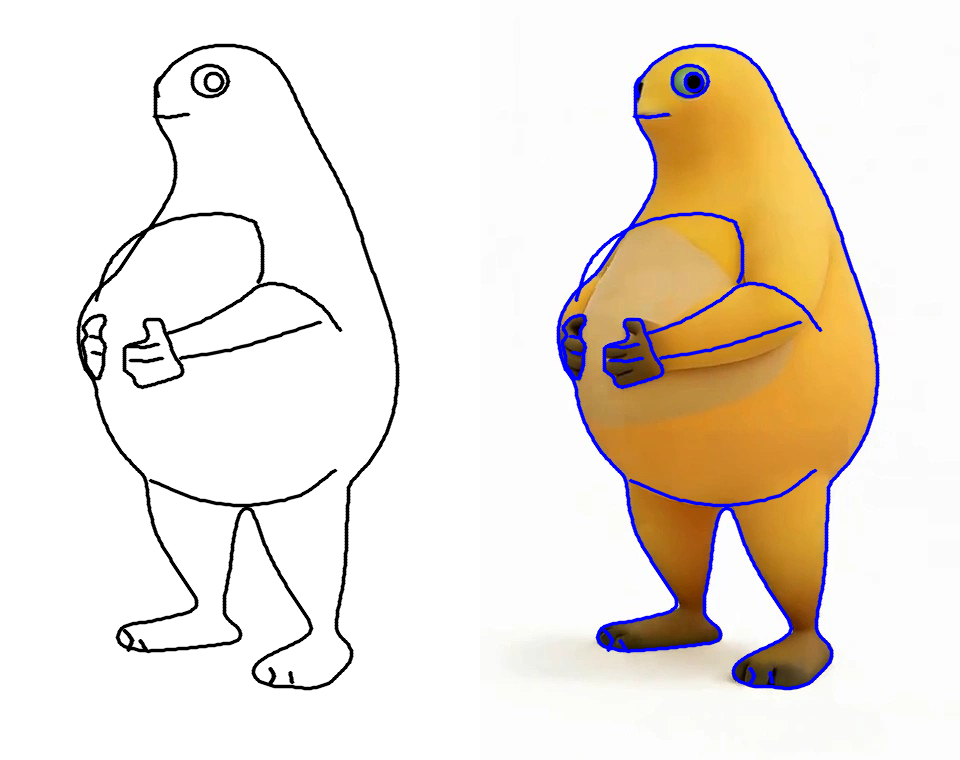
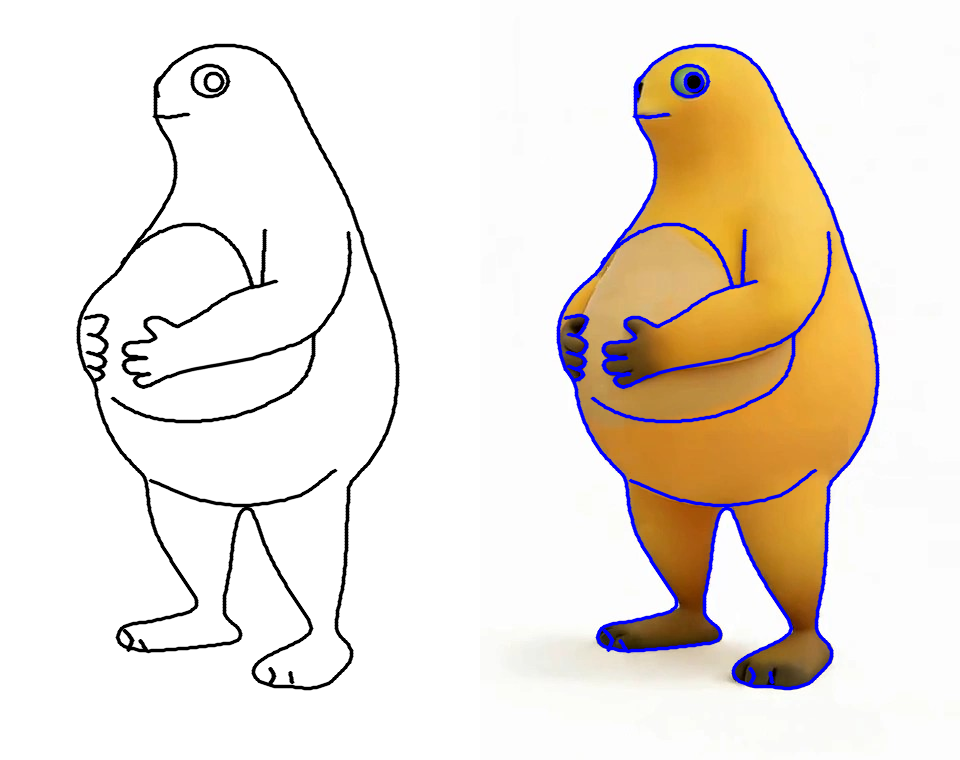
Re-trace belly, arm and hands of the Fourier blob line art
Forearm, upper-arm edge and belly patch now follow the saturation/edge
map of the original, and both hands have individual fingers instead of
auto-traced blobs.

Claude-Session: https://claude.ai/code/session_018qoiqyQLApFChg54ZYyW22

diff --git a/fourier-blob/index.html b/fourier-blob/index.html
@@ -83,7 +83,7 @@ button:focus-visible, input:focus-visible { outline: 2px solid var(--pink); outl
 </div>
 
 <script>
-const D = {"a0":[-20.1,-3.0],"co":[[1.267,24.946,97.851,3.509],[-65.021,-37.85,-112.277,59.65],[39.79,-29.348,-112.597,-103.98],[11.255,-11.681,-22.856,-31.646],[3.759,-10.137,-95.737,-6.69],[-1.82,-33.884,-53.215,18.433],[-16.895,15.581,13.333,7.051],[-1.468,12.149,21.556,-7.887],[20.066,-3.367,-7.398,-1.979],[-9.421,-1.943,-16.841,12.173],[12.548,17.366,-13.779,2.76],[7.595,-9.218,6.335,-11.279],[-6.725,-2.003,1.982,-4.646],[-10.204,1.856,-4.412,1.798],[-2.038,-5.01,-4.497,-0.007],[-6.106,1.786,-6.265,-0.136],[3.061,-6.3,-4.232,-4.478],[-3.201,2.468,4.009,2.845],[6.467,-6.089,-4.691,-4.582],[4.843,4.213,-0.828,7.801],[-0.879,-1.636,1.063,-1.656],[-4.202,-3.204,-1.892,1.254],[-2.165,-3.493,0.377,-5.693],[4.624,-3.316,0.166,-0.465],[2.382,1.472,-2.003,-1.512],[2.282,0.31,-0.194,0.554],[0.058,0.963,-3.913,2.759],[1.124,0.778,1.45,-2.091],[1.6,0.192,0.306,0.714],[-1.476,-0.899,-2.193,-0.34],[-0.912,-0.366,1.737,1.574],[1.684,-2.265,-1.917,-0.507],[1.433,0.204,0.683,-2.708],[2.306,1.916,-0.884,0.6],[-0.977,1.362,0.596,-0.367],[-0.403,-1.24,-1.253,0.022],[1.175,0.747,-0.15,1.306],[0.155,-0.893,-0.265,-1.531],[-0.224,0.896,-0.747,0.282],[-0.392,-0.326,-0.697,-0.345],[1.216,-1.589,0.142,0.458],[0.695,1.017,0.364,-0.15],[-0.002,1.123,0.339,0.238],[1.237,0.677,-0.087,-1.081],[-0.359,0.309,-0.038,0.554],[-0.63,0.2,-0.689,-0.539],[0.244,-0.044,-0.47,0.517],[-0.537,0.134,-0.284,-0.197],[0.139,-0.699,-0.515,-0.758],[-0.282,-0.062,0.438,0.564],[-0.367,0.112,-0.409,0.17],[1.188,-0.015,1.344,0.618],[-0.688,0.871,-1.195,-0.334],[0.374,-0.569,-0.027,-0.6],[0.028,-0.292,-0.679,-0.175],[0.309,-0.2,-0.131,-0.462],[0.65,0.284,0.695,0.693],[-0.004,0.531,-0.429,-0.362],[-0.964,-0.469,0.108,0.185],[0.061,0.089,-0.648,0.035],[0.165,-0.061,0.388,-0.092],[0.32,-0.399,0.083,0.015],[-0.052,0.723,-0.279,0.145],[0.069,-0.158,-0.092,-0.322],[0.55,0.126,-0.4,0.056],[-0.47,0.261,0.313,-0.117],[0.232,-0.474,0.29,0.359],[-0.003,-0.198,-0.458,-0.283],[0.278,-0.2,-0.186,-0.032],[0.129,0.294,-0.163,-0.016],[-0.766,0.415,-0.127,-0.064],[0.197,-0.129,0.351,0.33],[-0.133,-0.004,-0.41,-0.342],[0.267,0.102,0.342,0.14],[0.248,-0.19,-0.375,-0.12],[0.223,-0.095,0.007,-0.016],[0.367,-0.182,0.109,0.077],[-0.148,0.02,-0.192,-0.358],[-0.204,0.009,0.1,0.082],[-0.124,0.093,-0.294,0.324],[0.094,0.266,0.201,-0.084],[-0.003,0.127,-0.038,-0.076],[-0.221,0.072,-0.117,-0.047],[0.281,0.019,0.32,0.08],[0.305,-0.229,-0.555,-0.001],[0.015,-0.017,-0.029,-0.039],[0.229,0.151,0.207,0.021],[-0.556,-0.219,-0.137,-0.101],[0.157,0.402,0.191,0.277],[-0.271,-0.4,-0.407,-0.027],[-0.196,0.18,0.18,-0.104],[0.111,-0.194,-0.238,-0.073],[0.036,0.109,0.166,-0.176],[0.531,-0.046,-0.086,0.097],[-0.114,0.12,-0.045,-0.004],[0.117,0.047,-0.123,0.188],[-0.115,-0.193,0.029,0.097],[-0.04,-0.07,0.097,-0.158],[-0.082,-0.289,-0.025,-0.043],[0.123,0.237,-0.174,-0.112],[-0.119,0.052,0.228,0.165],[0.069,0.245,-0.195,-0.15],[-0.227,-0.005,0.028,0.134],[0.25,-0.129,-0.036,0.04],[0.194,-0.126,-0.17,0.102],[-0.143,-0.046,0.074,0.057],[0.189,-0.068,-0.184,0.097],[-0.239,-0.198,0.228,-0.405],[0.236,0.088,-0.22,0.212],[-0.067,0.033,0.012,-0.149],[0.0,0.044,-0.017,0.189],[-0.001,-0.042,-0.138,0.05],[0.139,0.224,0.13,-0.12],[0.098,-0.174,-0.113,-0.004],[-0.2,0.129,-0.084,-0.081],[0.119,-0.222,0.121,0.153],[0.124,0.059,-0.174,-0.092],[0.163,-0.178,0.068,0.009],[-0.012,0.061,-0.046,-0.009],[-0.088,-0.012,-0.094,0.12],[0.048,0.021,0.164,0.102],[0.05,0.108,-0.128,-0.117],[-0.075,0.033,0.07,-0.044],[0.212,0.255,-0.235,-0.168],[-0.114,-0.134,-0.008,0.117],[0.23,0.1,-0.007,0.06],[-0.02,-0.153,0.013,0.118],[-0.041,-0.122,-0.006,-0.024],[-0.062,0.081,-0.179,0.001],[-0.061,0.002,0.186,-0.026],[0.086,0.09,-0.126,-0.12],[-0.142,0.125,0.024,-0.078],[0.146,0.099,-0.071,0.115],[0.02,-0.1,-0.082,-0.133],[-0.067,-0.076,-0.119,0.199],[0.169,-0.098,0.162,0.002],[-0.051,0.041,-0.008,-0.089],[0.053,0.032,0.01,0.009],[-0.126,0.125,-0.099,-0.079],[-0.015,-0.015,-0.009,0.005],[0.081,-0.028,-0.021,0.039],[-0.067,0.012,-0.081,0.016],[0.082,-0.1,0.086,0.033],[-0.169,0.059,-0.104,-0.0],[0.117,0.05,0.058,-0.091],[-0.029,0.015,-0.002,0.062],[0.008,-0.008,-0.015,-0.128],[0.057,-0.059,-0.075,0.06],[0.047,0.014,-0.134,0.035],[0.021,-0.111,0.043,-0.008],[-0.061,-0.071,0.075,0.06],[-0.143,0.018,-0.047,-0.099],[0.118,0.124,0.104,0.062],[-0.034,-0.005,-0.087,-0.167],[0.063,0.138,-0.035,0.051],[0.098,-0.065,-0.066,0.005],[-0.057,-0.043,0.03,0.039],[0.075,-0.119,-0.024,0.009],[-0.083,-0.027,0.017,0.077],[0.036,-0.133,0.041,-0.089],[-0.099,0.134,-0.087,0.027],[0.09,0.048,0.113,-0.086],[0.067,0.021,-0.126,0.036],[-0.055,0.04,0.033,-0.072],[0.154,-0.037,-0.119,0.18],[-0.033,-0.009,0.041,-0.053],[-0.016,-0.045,0.032,-0.014],[0.001,0.012,0.015,-0.033],[-0.018,0.041,0.045,-0.112],[0.081,-0.06,-0.097,0.143],[-0.054,0.058,0.005,-0.063],[-0.002,-0.054,-0.029,0.083],[0.074,0.034,-0.012,-0.02],[-0.063,-0.038,-0.008,-0.016],[0.038,0.033,0.04,0.058],[-0.019,0.075,-0.017,-0.061],[0.052,-0.008,0.062,-0.002],[0.067,0.012,-0.097,-0.052],[-0.021,-0.072,-0.005,0.079],[0.095,-0.038,-0.068,-0.015],[-0.12,0.034,-0.028,0.098],[0.002,0.012,0.111,-0.067],[-0.035,0.004,-0.026,0.016],[-0.061,0.027,-0.015,-0.068],[0.114,0.109,-0.067,0.077],[-0.011,-0.056,0.065,-0.041],[0.089,0.006,-0.083,0.007],[-0.01,-0.062,0.001,0.005],[-0.002,-0.027,-0.029,0.014],[-0.042,-0.027,0.012,0.029],[-0.032,0.044,0.048,0.006],[0.007,-0.027,-0.02,-0.024],[-0.048,0.082,-0.035,-0.064],[0.079,-0.006,-0.053,0.051],[0.021,0.007,0.003,0.027],[-0.017,-0.019,0.028,0.019],[0.082,-0.01,-0.043,0.012],[-0.036,-0.017,-0.015,-0.031],[-0.026,0.004,0.029,0.01],[0.001,-0.011,-0.03,-0.01],[-0.047,-0.018,0.014,-0.007],[0.066,-0.001,-0.071,0.018],[-0.035,0.006,-0.008,-0.029],[0.017,0.002,-0.019,0.023],[0.04,0.043,-0.045,0.038],[0.002,-0.02,0.096,-0.021],[0.013,-0.003,-0.05,-0.031],[0.007,0.023,-0.003,0.013],[0.001,-0.037,-0.022,-0.021],[-0.007,-0.008,-0.043,0.013],[-0.038,-0.015,0.028,-0.023],[0.041,-0.036,-0.021,0.016],[-0.045,0.048,-0.0,-0.0],[0.015,0.004,-0.011,0.027],[0.054,0.003,0.009,-0.01],[-0.026,-0.026,-0.032,-0.015],[0.068,0.033,0.008,-0.013],[-0.019,-0.031,-0.057,0.012],[0.031,-0.007,0.033,-0.0],[-0.013,-0.017,-0.043,-0.005],[-0.024,0.004,0.051,0.019],[0.004,0.011,-0.038,-0.016],[-0.004,0.02,0.023,-0.002],[0.024,-0.007,-0.048,-0.04],[-0.025,0.016,-0.021,-0.006],[0.058,-0.02,-0.004,0.049],[-0.003,-0.015,-0.001,-0.028],[0.019,-0.008,0.002,0.039],[0.012,-0.005,0.005,-0.016],[-0.0,-0.015,-0.01,-0.017],[-0.026,0.01,0.03,0.026],[0.045,0.04,-0.014,-0.074],[-0.013,-0.037,-0.03,0.012],[0.028,0.057,-0.04,0.003],[0.003,-0.016,0.004,0.017],[0.014,-0.011,-0.005,0.033],[0.003,0.015,0.027,-0.013],[-0.011,-0.008,-0.001,-0.002],[0.026,0.004,0.017,-0.011],[-0.031,0.002,-0.051,-0.01],[0.023,0.021,0.018,0.022],[-0.016,-0.006,-0.009,-0.039],[0.018,0.01,-0.02,0.012],[0.015,-0.043,-0.002,0.007],[-0.024,0.033,-0.012,0.023],[0.033,0.001,0.008,-0.01],[-0.011,-0.008,0.019,-0.003],[0.014,0.021,-0.053,-0.034],[-0.015,-0.02,0.022,0.038],[0.023,0.03,-0.038,0.006],[-0.016,-0.012,0.039,0.024],[0.022,0.007,0.027,-0.023],[-0.024,-0.019,-0.046,-0.048],[0.003,0.025,0.002,0.038],[0.019,-0.022,-0.019,-0.014],[0.002,0.024,0.012,0.001],[-0.007,-0.039,-0.043,0.012],[0.018,0.049,0.008,0.014],[-0.016,-0.044,-0.01,0.027],[0.012,0.038,0.032,-0.006],[-0.001,-0.006,0.004,-0.003],[0.001,-0.001,0.012,-0.04],[0.015,0.012,-0.044,-0.018],[-0.015,-0.008,-0.02,0.04],[0.027,-0.013,-0.002,-0.015],[-0.045,0.004,-0.017,0.048],[0.022,-0.008,0.019,-0.036],[-0.019,0.008,-0.024,0.028],[0.013,-0.011,0.019,-0.012],[-0.002,0.027,-0.011,0.005],[0.032,-0.014,0.008,-0.006],[0.004,-0.011,-0.022,-0.007],[-0.007,-0.008,-0.006,-0.01],[-0.002,0.01,-0.03,0.03],[0.012,-0.011,0.038,-0.006],[-0.02,-0.005,-0.025,-0.015],[0.002,0.02,0.002,-0.003],[0.005,0.017,-0.031,-0.003],[0.022,-0.036,0.001,0.024],[-0.016,0.027,-0.003,0.005],[0.021,-0.032,0.01,-0.003],[-0.003,0.015,-0.0,0.01],[-0.011,-0.004,-0.008,-0.027],[0.019,0.002,0.001,0.02],[-0.005,-0.001,-0.014,-0.04],[-0.006,-0.014,-0.019,0.02],[0.024,0.016,-0.003,0.006],[-0.008,-0.019,-0.02,-0.004],[-0.0,-0.004,0.006,0.027],[0.004,0.025,-0.008,-0.009],[-0.005,-0.015,0.03,0.009],[0.027,0.018,-0.022,-0.027],[-0.002,-0.013,0.002,-0.003],[0.004,-0.003,-0.027,0.005],[0.015,-0.002,0.007,0.002],[-0.029,-0.017,-0.013,0.005],[0.019,0.007,0.01,-0.002],[-0.017,0.02,-0.02,-0.015],[0.017,-0.02,-0.001,0.025],[0.0,0.041,-0.004,-0.016],[0.022,-0.038,0.002,0.018],[-0.003,0.016,-0.001,-0.021],[0.011,-0.016,-0.024,0.007],[-0.011,-0.01,0.023,0.021],[-0.006,0.01,-0.015,-0.036],[-0.004,0.008,0.006,0.027],[0.02,0.011,-0.008,-0.028],[-0.002,-0.011,-0.009,0.002],[0.004,0.008,-0.025,0.008],[0.015,-0.004,0.002,0.009],[-0.008,-0.026,0.013,0.014],[-0.002,0.02,-0.003,-0.021],[-0.007,-0.012,-0.008,-0.003],[0.013,0.02,-0.007,0.016],[-0.009,-0.004,0.009,-0.016],[0.025,0.012,-0.005,0.01],[0.008,-0.016,-0.011,-0.024],[-0.016,-0.008,-0.009,0.01],[0.019,-0.001,-0.015,0.012],[-0.025,0.009,0.013,-0.002],[0.022,-0.019,-0.001,0.007],[-0.027,0.035,-0.002,-0.023],[0.029,-0.018,-0.019,0.016],[-0.003,0.019,0.007,0.015],[0.018,-0.012,0.01,-0.026],[-0.009,-0.012,-0.018,0.023],[0.012,0.013,0.013,-0.036],[-0.019,-0.02,-0.026,0.024],[0.011,0.014,0.005,-0.015],[-0.006,0.008,-0.01,0.017],[0.009,-0.017,0.002,-0.006],[-0.007,0.026,-0.001,-0.002],[0.014,-0.017,-0.014,-0.0],[0.003,0.005,-0.003,0.015],[-0.005,-0.001,0.016,-0.009],[0.008,-0.001,-0.013,0.002],[0.001,-0.001,0.009,-0.013],[-0.002,0.005,-0.029,-0.002],[0.015,-0.009,0.009,0.019],[-0.02,-0.001,-0.001,-0.016],[0.022,0.007,-0.007,0.008],[-0.021,-0.016,-0.009,-0.012],[0.008,0.022,-0.003,0.016],[-0.002,-0.006,-0.005,0.003],[0.016,0.009,0.013,-0.001],[-0.003,-0.006,-0.009,-0.006],[0.012,-0.0,0.003,0.003],[0.004,-0.003,-0.007,-0.015],[0.004,-0.012,-0.016,0.011],[-0.017,-0.007,0.011,0.0],[0.001,0.012,-0.011,-0.007],[-0.008,0.003,-0.009,0.009],[0.011,0.012,0.007,-0.003],[0.001,0.0,-0.013,0.007],[0.009,0.006,0.009,0.003],[0.017,-0.003,-0.0,-0.008],[-0.001,-0.015,-0.005,-0.003],[0.003,-0.007,-0.011,-0.005],[-0.01,-0.007,-0.009,0.014],[-0.013,0.006,0.019,0.001],[0.006,0.007,-0.012,-0.016],[-0.003,0.007,-0.007,0.008],[0.006,0.008,-0.006,-0.007],[0.011,0.005,-0.006,0.012],[0.013,0.001,0.006,-0.0],[0.005,-0.024,-0.012,-0.005],[-0.009,0.012,0.01,0.012],[0.004,-0.019,-0.007,-0.019],[-0.008,0.009,-0.008,0.023],[-0.003,0.002,0.015,-0.017],[-0.0,0.003,-0.014,-0.001],[0.004,0.009,-0.013,-0.009],[0.006,0.002,-0.005,0.015],[0.009,-0.007,-0.005,-0.002],[-0.007,0.003,0.007,0.01],[0.011,0.005,0.001,-0.007],[0.01,-0.013,-0.008,-0.007],[-0.02,0.003,0.006,0.003],[0.014,-0.005,-0.025,0.002],[-0.003,0.011,0.027,0.003],[-0.003,-0.017,-0.022,-0.016],[-0.005,0.015,0.002,0.013],[-0.004,-0.001,-0.006,-0.007],[0.011,0.01,-0.005,0.016],[0.007,0.005,0.012,-0.018],[0.004,-0.015,-0.017,0.007],[0.008,0.007,-0.007,-0.005],[-0.005,-0.015,0.002,0.01],[0.006,-0.003,-0.007,0.005],[-0.015,-0.003,0.012,-0.004],[-0.0,0.004,-0.003,-0.006],[-0.009,0.01,-0.01,-0.007],[0.012,0.014,-0.001,0.004],[0.014,-0.009,-0.013,-0.003],[-0.008,0.005,0.004,0.0],[0.018,-0.01,-0.008,0.005],[-0.0,-0.003,-0.002,0.001],[-0.01,-0.016,0.0,0.0],[-0.002,0.015,0.0,0.005],[-0.008,-0.007,0.01,-0.008]],"up":[[0.3754,0.37863],[0.40153,0.4027],[0.41121,0.41855],[0.42559,0.42882],[0.43587,0.4614],[0.49574,0.49809],[0.53361,0.53713],[0.54065,0.543],[0.54652,0.55122],[0.60258,0.60376],[0.6108,0.61286],[0.65453,0.65776],[0.68623,0.68888],[0.69592,0.71382],[0.75286,0.7828],[0.79865,0.86176],[0.8688,0.87115],[0.87467,0.89316],[0.90021,0.90373],[0.90725,1.0]],"art":[[[-19.0,-334.5],[-25.0,-334.1],[-31.0,-333.3],[-37.0,-332.1],[-43.0,-330.2],[-49.0,-327.7],[-55.0,-324.6],[-60.7,-320.7],[-66.3,-316.2],[-72.0,-310.9],[-76.7,-305.0],[-80.5,-300.0],[-83.1,-295.2],[-84.7,-290.0],[-84.5,-284.0],[-84.3,-278.0],[-84.5,-272.0],[-84.5,-266.0],[-83.0,-260.0],[-80.0,-254.0],[-76.3,-248.0],[-72.3,-242.0],[-69.3,-236.0],[-67.2,-230.0],[-65.8,-224.0],[-64.7,-218.0],[-64.2,-212.0],[-64.4,-206.0],[-65.3,-200.0],[-66.6,-194.0],[-68.9,-188.0],[-71.7,-182.0],[-75.1,-176.0],[-78.5,-170.0],[-82.3,-164.0],[-86.5,-158.0],[-90.8,-152.0],[-95.3,-146.3],[-100.1,-140.7],[-104.6,-135.0],[-108.7,-129.0],[-112.5,-123.0],[-116.3,-117.0],[-120.2,-111.0],[-124.7,-105.5],[-130.1,-100.7],[-135.7,-96.3],[-141.0,-91.4],[-146.1,-86.0],[-150.7,-80.0],[-154.5,-74.0],[-157.3,-68.0],[-159.4,-62.0],[-160.9,-56.0],[-161.6,-50.0],[-161.5,-44.0],[-161.1,-38.0],[-160.5,-32.0],[-159.3,-26.0],[-157.7,-20.0],[-155.6,-14.0],[-152.5,-8.1],[-148.5,-2.5],[-145.3,3.1],[-144.0,9.0],[-143.1,15.0],[-141.8,21.0],[-140.3,27.0],[-138.6,33.0],[-136.4,39.0],[-133.9,45.0],[-131.1,51.0],[-127.9,57.0],[-124.3,63.0],[-120.3,69.0],[-115.8,75.0],[-110.9,80.9],[-105.6,86.5],[-100.2,91.7],[-95.7,97.3],[-93.5,103.0],[-92.7,109.0],[-92.3,115.0],[-91.6,121.0],[-90.7,127.0],[-89.5,133.0],[-88.0,139.0],[-86.3,145.0],[-84.3,151.0],[-81.9,157.0],[-78.9,163.0],[-75.5,169.0],[-71.9,175.0],[-68.1,181.0],[-64.1,187.0],[-60.3,193.0],[-56.5,199.0],[-52.6,205.0],[-48.6,211.0],[-44.9,217.0],[-43.1,222.9],[-45.0,227.8],[-50.0,231.1],[-56.0,233.1],[-62.0,234.9],[-68.0,236.4],[-74.0,237.9],[-80.0,239.3],[-86.0,240.5],[-92.0,241.5],[-98.0,242.4],[-104.0,243.3],[-110.0,244.5],[-115.9,246.9],[-120.5,251.3],[-122.4,257.0],[-120.5,262.5],[-115.9,266.2],[-110.0,268.0],[-104.0,269.5],[-98.0,270.7],[-92.0,271.0],[-86.0,270.7],[-80.0,270.3],[-74.0,269.9],[-68.0,269.5],[-62.0,268.9],[-56.0,268.5],[-50.0,267.7],[-44.0,267.2],[-38.0,266.5],[-32.0,265.8],[-26.0,265.1],[-20.0,264.3],[-14.0,263.5],[-8.0,262.5],[-2.8,260.2],[0.0,255.8],[-0.7,250.2],[-4.5,245.5],[-9.9,241.1],[-14.1,235.9],[-15.9,230.0],[-15.9,224.0],[-15.5,218.0],[-14.5,212.0],[-13.3,206.0],[-12.1,200.0],[-11.1,194.0],[-10.0,188.0],[-9.2,182.0],[-8.5,176.0],[-8.0,170.0],[-7.4,164.0],[-6.4,158.0],[-5.3,152.0],[-3.8,146.0],[-2.3,140.0],[-0.3,134.0],[3.1,129.4],[7.8,128.3],[12.1,131.5],[14.9,137.0],[17.2,143.0],[19.3,149.0],[21.4,155.0],[23.6,161.0],[26.1,167.0],[28.8,173.0],[31.7,179.0],[34.8,185.0],[38.1,191.0],[41.5,197.0],[45.1,203.0],[48.5,209.0],[52.4,215.0],[56.3,221.0],[60.5,227.0],[64.5,233.0],[68.3,239.0],[70.9,245.0],[70.5,250.8],[66.8,255.7],[61.0,259.5],[55.0,262.7],[49.0,265.7],[43.0,268.5],[37.0,271.3],[31.0,274.3],[25.0,277.4],[19.1,281.6],[14.9,287.0],[13.3,293.0],[15.4,297.9],[19.9,301.3],[25.5,303.6],[31.1,305.8],[37.0,306.6],[43.0,306.5],[49.0,306.3],[55.0,307.1],[61.0,307.9],[67.0,308.0],[73.0,307.7],[79.0,306.7],[85.0,304.6],[91.0,301.1],[96.9,296.1],[102.5,290.5],[107.5,284.9],[110.7,279.0],[111.5,273.0],[109.9,267.1],[105.9,261.7],[100.9,256.5],[97.5,251.0],[96.2,245.0],[96.6,239.0],[97.5,233.0],[98.5,227.0],[99.7,221.0],[100.9,215.0],[102.1,209.0],[103.1,203.0],[103.9,197.0],[104.6,191.0],[105.1,185.0],[105.5,179.0],[105.9,173.0],[106.0,167.0],[106.0,161.0],[106.1,155.0],[106.5,149.0],[106.9,143.0],[107.0,137.0],[107.4,131.0],[107.8,125.0],[108.0,119.0],[108.0,113.0],[108.9,107.0],[111.9,101.0],[117.0,95.0],[122.7,89.0],[128.0,83.0],[132.5,77.0],[136.5,71.0],[140.1,65.0],[143.3,59.0],[146.1,53.0],[148.5,47.0],[150.6,41.0],[152.3,35.0],[153.8,29.0],[155.0,23.0],[155.9,17.0],[156.6,11.0],[157.0,5.0],[157.3,-1.0],[157.5,-7.0],[157.4,-13.0],[156.7,-19.0],[156.3,-25.0],[155.6,-31.0],[154.8,-37.0],[153.7,-43.0],[152.4,-49.0],[150.9,-55.0],[149.3,-61.0],[147.7,-67.0],[145.7,-73.0],[143.7,-79.0],[141.5,-85.0],[139.5,-91.0],[137.3,-97.0],[135.1,-103.0],[132.9,-109.0],[130.7,-115.0],[128.7,-121.0],[126.7,-127.0],[124.9,-133.0],[122.9,-139.0],[121.0,-145.0],[118.9,-151.0],[116.9,-157.0],[114.7,-163.0],[112.4,-169.0],[109.9,-175.0],[107.5,-181.0],[104.9,-187.0],[101.9,-193.0],[98.7,-199.0],[95.7,-205.0],[92.5,-211.0],[89.1,-217.0],[85.9,-223.0],[82.5,-229.0],[79.2,-235.0],[76.0,-241.0],[72.7,-247.0],[69.6,-253.0],[66.4,-259.0],[63.6,-265.0],[61.0,-271.0],[58.3,-277.0],[55.5,-283.0],[52.8,-289.0],[49.8,-295.0],[46.4,-301.0],[42.5,-307.0],[38.1,-312.8],[32.8,-318.0],[27.0,-322.5],[21.0,-326.4],[15.0,-329.3],[9.0,-331.3],[3.0,-332.9],[-3.0,-333.7],[-9.0,-334.4],[-15.0,-334.6],[-19.0,-334.5],[-19.0,-334.5]],[[-12.0,-299.0],[-12.9,-294.1],[-15.6,-289.7],[-19.8,-286.2],[-25.0,-284.1],[-30.7,-283.5],[-36.4,-284.5],[-41.4,-287.0],[-45.2,-290.7],[-47.5,-295.3],[-47.9,-300.2],[-46.6,-305.1],[-43.5,-309.3],[-39.0,-312.4],[-33.6,-314.2],[-27.8,-314.4],[-22.3,-313.0],[-17.5,-310.2],[-14.1,-306.2],[-12.2,-301.5],[-12.0,-299.0]],[[-17.5,-298.0],[-18.3,-294.2],[-20.5,-291.1],[-23.7,-289.3],[-27.4,-289.1],[-30.8,-290.6],[-33.3,-293.4],[-34.5,-297.0],[-34.1,-300.9],[-32.2,-304.2],[-29.1,-306.4],[-25.5,-307.0],[-22.0,-306.0],[-19.2,-303.4],[-17.7,-299.9],[-17.5,-298.0]],[[-80.0,-302.0],[-80.5,-301.2],[-81.3,-300.0],[-82.1,-298.6],[-83.0,-297.1],[-83.6,-295.5],[-84.0,-294.0],[-84.0,-292.3],[-83.7,-290.4],[-83.2,-288.5],[-82.7,-286.7],[-82.3,-285.1],[-82.0,-284.0],[-82.0,-284.0]],[[-86.0,-264.0],[-84.3,-263.8],[-81.9,-263.6],[-79.1,-263.3],[-76.1,-263.1],[-73.0,-262.9],[-70.0,-263.0],[-66.9,-263.3],[-63.5,-263.8],[-60.0,-264.4],[-56.7,-265.1],[-54.0,-265.6],[-52.0,-266.0],[-52.0,-266.0]],[[-144.0,-80.0],[-142.7,-84.3],[-141.0,-90.2],[-138.9,-97.2],[-136.4,-104.7],[-133.4,-111.8],[-130.0,-118.0],[-126.0,-123.4],[-121.6,-128.5],[-116.6,-133.4],[-111.3,-137.9],[-105.8,-142.1],[-100.0,-146.0],[-94.0,-149.5],[-87.6,-152.7],[-80.9,-155.5],[-74.1,-158.0],[-67.1,-160.2],[-60.0,-162.0],[-52.6,-163.5],[-44.8,-164.7],[-36.9,-165.5],[-29.1,-166.0],[-21.7,-166.2],[-15.0,-166.0],[-8.8,-165.3],[-2.8,-163.9],[2.8,-162.2],[7.8,-160.5],[11.9,-159.0],[15.0,-158.0],[15.0,-158.0]],[[15.0,-158.0],[15.8,-155.5],[17.1,-152.2],[18.5,-148.2],[19.9,-143.8],[21.2,-139.3],[22.0,-135.0],[22.5,-130.5],[22.7,-125.7],[22.7,-120.7],[22.6,-115.9],[22.3,-111.6],[22.0,-108.0],[21.5,-105.2],[20.8,-103.0],[20.0,-101.3],[19.2,-100.0],[18.5,-98.9],[18.0,-98.0],[18.0,-98.0]],[[-74.0,-46.0],[-70.4,-47.2],[-65.4,-48.7],[-59.5,-50.6],[-53.0,-52.8],[-46.4,-55.3],[-40.0,-58.0],[-33.5,-61.2],[-26.4,-64.9],[-19.2,-68.8],[-12.2,-72.8],[-5.7,-76.6],[0.0,-80.0],[4.6,-83.1],[8.4,-86.1],[11.8,-89.0],[14.9,-91.5],[18.2,-93.6],[22.0,-95.0],[26.3,-95.8],[30.8,-96.2],[35.5,-96.1],[40.3,-95.5],[45.1,-94.5],[50.0,-93.0],[55.0,-91.0],[60.2,-88.4],[65.5,-85.4],[70.7,-82.1],[75.6,-78.6],[80.0,-75.0],[84.1,-70.9],[88.1,-66.3],[91.9,-61.4],[95.2,-56.7],[97.9,-52.8],[100.0,-50.0],[100.0,-50.0]],[[-60.0,-22.0],[-54.6,-22.8],[-47.0,-23.8],[-38.1,-25.1],[-28.5,-26.5],[-18.9,-28.2],[-10.0,-30.0],[-1.6,-32.1],[7.0,-34.6],[15.6,-37.2],[24.1,-39.9],[32.2,-42.5],[40.0,-45.0],[47.7,-47.4],[55.6,-50.0],[63.1,-52.4],[70.0,-54.7],[75.8,-56.6],[80.0,-58.0],[80.0,-58.0]],[[-142.0,-64.6],[-146.0,-63.3],[-149.7,-61.4],[-153.1,-58.0],[-156.1,-54.0],[-156.1,-50.7],[-154.4,-47.9],[-154.0,-44.0],[-155.4,-40.9],[-157.6,-38.6],[-157.6,-35.0],[-156.1,-31.0],[-155.1,-27.0],[-155.0,-23.0],[-154.9,-19.0],[-153.6,-15.0],[-151.4,-11.0],[-148.6,-7.0],[-146.7,-3.3],[-144.0,-1.3],[-140.9,-1.9],[-140.0,-5.0],[-138.9,-9.0],[-137.3,-13.0],[-137.0,-17.0],[-137.0,-21.0],[-136.7,-25.0],[-135.7,-29.0],[-135.0,-33.0],[-136.0,-36.9],[-138.6,-40.3],[-140.0,-44.0],[-139.9,-48.0],[-138.4,-52.0],[-136.0,-56.0],[-135.0,-60.0],[-135.9,-63.6],[-139.0,-65.0],[-142.0,-64.6],[-142.0,-64.6]],[[-92.9,-60.4],[-95.4,-57.9],[-95.7,-54.0],[-93.9,-50.4],[-92.1,-47.0],[-92.1,-43.0],[-94.1,-39.9],[-98.0,-38.4],[-102.0,-37.4],[-106.0,-36.4],[-110.0,-35.4],[-113.9,-33.4],[-115.9,-30.0],[-116.0,-26.0],[-116.0,-22.0],[-116.0,-18.0],[-116.0,-14.0],[-115.1,-10.0],[-112.0,-6.6],[-108.1,-4.3],[-106.0,-1.0],[-104.7,3.0],[-101.9,6.0],[-98.0,7.0],[-94.0,6.4],[-90.0,5.3],[-86.0,4.0],[-82.0,2.9],[-78.0,1.7],[-74.0,0.3],[-70.0,-0.9],[-66.0,-2.1],[-62.0,-3.9],[-58.4,-5.9],[-57.3,-9.0],[-58.1,-13.0],[-60.3,-17.0],[-63.4,-21.0],[-65.7,-25.0],[-67.9,-29.0],[-69.0,-33.0],[-69.7,-37.0],[-71.9,-41.0],[-73.7,-45.0],[-75.1,-49.0],[-76.1,-53.0],[-77.4,-57.0],[-79.4,-59.9],[-83.0,-60.9],[-87.0,-61.0],[-91.0,-60.9],[-92.9,-60.4]],[[-112.0,-34.0],[-110.1,-33.8],[-107.4,-33.6],[-104.3,-33.3],[-101.0,-33.1],[-97.8,-32.9],[-95.0,-33.0],[-92.5,-33.3],[-89.9,-33.8],[-87.4,-34.4],[-85.2,-35.1],[-83.4,-35.6],[-82.0,-36.0],[-82.0,-36.0]],[[-110.0,-20.0],[-108.0,-19.8],[-105.2,-19.6],[-101.9,-19.3],[-98.4,-19.1],[-95.0,-18.9],[-92.0,-19.0],[-89.3,-19.3],[-86.5,-19.8],[-83.9,-20.4],[-81.5,-21.1],[-79.5,-21.6],[-78.0,-22.0],[-78.0,-22.0]],[[-150.0,-44.0],[-148.8,-43.8],[-147.0,-43.4],[-145.0,-43.0],[-143.0,-42.6],[-141.2,-42.2],[-140.0,-42.0],[-140.0,-42.0]],[[-148.0,-28.0],[-147.0,-27.8],[-145.6,-27.4],[-144.0,-27.0],[-142.4,-26.6],[-141.0,-26.2],[-140.0,-26.0],[-140.0,-26.0]],[[-90.0,100.0],[-84.6,102.3],[-77.0,105.7],[-68.1,109.7],[-58.5,113.7],[-48.9,117.3],[-40.0,120.0],[-31.7,121.9],[-23.3,123.3],[-15.0,124.4],[-6.7,125.0],[1.7,125.2],[10.0,125.0],[18.5,124.4],[27.2,123.3],[35.9,121.9],[44.4,120.0],[52.5,117.7],[60.0,115.0],[67.1,111.4],[74.1,106.9],[80.6,101.9],[86.5,97.0],[91.4,92.9],[95.0,90.0],[95.0,90.0]],[[-116.0,250.0],[-115.0,251.1],[-113.5,252.6],[-111.8,254.4],[-110.1,256.3],[-108.7,258.2],[-108.0,260.0],[-108.0,261.8],[-108.6,263.7],[-109.5,265.6],[-110.5,267.4],[-111.4,268.9],[-112.0,270.0],[-112.0,270.0]],[[-100.0,260.0],[-99.3,261.2],[-98.2,263.0],[-97.0,265.0],[-95.8,267.0],[-94.7,268.8],[-94.0,270.0],[-94.0,270.0]],[[30.0,288.0],[30.5,288.9],[31.3,290.1],[32.2,291.5],[33.1,293.0],[33.8,294.6],[34.0,296.0],[33.8,297.4],[33.1,299.0],[32.2,300.5],[31.3,301.9],[30.5,303.1],[30.0,304.0],[30.0,304.0]],[[50.0,292.0],[50.2,293.2],[50.6,295.0],[51.0,297.0],[51.4,299.0],[51.8,300.8],[52.0,302.0],[52.0,302.0]]],"w":480,"h":760,"bb":[-161.6,-334.6,157.5,308.0]};
+const D = {"a0":[-16.11,-3.56],"co":[[0.397,23.294,103.636,1.528],[-62.71,-45.799,-103.789,55.018],[22.111,-23.652,-125.157,-115.994],[21.847,-4.423,-46.845,-15.78],[11.003,-7.066,-63.421,16.247],[-0.171,-53.369,-44.67,-6.917],[-31.569,25.645,3.515,-4.927],[8.948,10.461,-1.15,-9.272],[8.487,-0.427,-5.064,21.912],[3.637,3.633,0.862,15.341],[12.856,5.063,-3.624,-11.115],[-2.816,-6.592,-12.833,-17.842],[0.835,5.052,4.547,-0.092],[-11.014,-5.256,-11.841,5.701],[-4.56,1.303,7.815,6.101],[-2.216,-1.266,-6.746,-6.63],[0.817,-5.663,-3.714,-6.853],[-2.682,-0.407,-4.235,1.26],[2.504,-2.391,-0.232,1.975],[8.465,0.809,-0.461,3.444],[-2.1,1.219,0.49,-0.189],[-1.852,-2.621,-1.469,1.376],[-2.929,-4.408,-1.161,-4.564],[2.472,-4.215,2.985,-0.552],[3.393,0.665,-2.784,-4.713],[1.407,1.131,-2.639,2.276],[1.393,1.238,-0.717,3.043],[1.042,0.325,-1.726,-1.759],[0.749,0.068,2.495,0.8],[0.308,0.616,-1.727,-1.057],[-1.368,-1.854,-0.304,0.791],[0.229,-1.429,0.146,0.906],[1.623,-0.58,-1.807,-2.528],[2.433,1.401,1.083,-0.472],[0.19,2.206,-1.303,1.258],[-0.859,-0.644,2.075,-0.949],[0.999,-0.558,-2.023,-0.036],[0.014,0.156,-0.773,-0.473],[0.308,-0.163,-0.785,0.383],[-0.912,0.905,-0.597,0.36],[0.818,-1.466,1.08,0.299],[1.4,-0.185,-0.092,-1.383],[0.13,1.07,-0.101,0.519],[0.319,0.638,-0.566,-0.317],[0.435,0.785,0.792,0.317],[-0.585,0.798,-0.412,-0.26],[0.462,-0.66,-0.545,-0.329],[-0.594,0.194,-0.437,0.39],[-0.348,-0.42,-0.88,-0.641],[0.018,-0.172,0.699,0.219],[-0.243,0.13,-0.343,-0.171],[0.23,-0.375,0.239,0.55],[0.691,0.917,0.308,0.75],[-0.618,-0.145,-0.467,-0.677],[0.343,-0.209,-0.189,-0.742],[0.317,-0.398,-0.776,-0.192],[0.256,-0.218,0.298,-0.323],[0.455,0.562,0.071,0.835],[-0.574,0.611,-0.276,-0.298],[-0.143,-0.784,0.386,0.465],[-0.197,0.099,-0.62,-0.601],[0.179,-0.141,0.483,0.068],[0.546,-0.106,-0.312,0.016],[-0.651,0.42,-0.324,0.072],[0.521,0.314,-0.131,0.067],[0.691,-0.01,-0.001,0.004],[-0.776,-0.247,0.691,-0.304],[0.209,-0.14,-0.461,0.067],[0.299,-0.162,-0.383,0.006],[0.111,-0.603,-0.215,-0.066],[-0.448,1.155,-0.075,0.358],[0.156,0.021,0.454,-0.461],[-0.256,-0.518,-0.427,0.176],[-0.161,0.355,-0.136,0.023],[0.355,0.136,0.469,0.056],[0.58,-0.306,-0.481,-0.294],[-0.256,-0.451,-0.01,0.014],[0.374,0.536,-0.041,0.23],[0.232,-0.344,0.045,-0.406],[-0.543,-0.127,0.03,0.258],[-0.104,0.355,-0.007,0.023],[0.29,0.226,-0.3,-0.287],[-0.162,-0.072,0.02,0.483],[-0.314,0.303,0.147,-0.311],[0.58,-0.031,0.214,0.208],[0.18,-0.334,-0.503,-0.176],[-0.007,-0.083,-0.052,-0.035],[0.002,0.415,0.127,0.062],[-0.073,-0.33,-0.074,-0.124],[-0.293,0.169,0.049,0.374],[-0.134,-0.017,-0.242,0.014],[-0.088,-0.027,0.267,-0.153],[0.107,-0.164,-0.294,-0.292],[-0.059,-0.04,-0.002,-0.022],[0.457,0.198,-0.035,0.081],[0.052,0.03,-0.065,0.179],[0.07,0.085,0.112,0.062],[-0.081,-0.337,-0.109,-0.02],[-0.155,0.093,0.006,-0.115],[0.046,-0.42,-0.005,0.071],[-0.033,0.328,-0.059,-0.126],[0.04,0.008,0.164,0.012],[-0.043,0.276,-0.237,0.007],[-0.084,-0.023,0.053,0.029],[0.053,-0.154,-0.036,0.198],[0.302,-0.039,-0.03,-0.034],[-0.092,-0.126,-0.034,-0.012],[0.044,-0.086,-0.287,0.128],[-0.122,-0.043,0.194,-0.192],[0.199,-0.096,0.002,0.094],[-0.051,0.101,-0.031,-0.134],[-0.033,0.065,-0.042,-0.001],[0.083,-0.059,-0.167,0.197],[0.059,0.087,-0.023,-0.16],[-0.044,-0.006,0.094,0.179],[0.092,0.236,-0.129,-0.243],[-0.02,-0.424,0.137,0.154],[0.116,0.126,-0.149,-0.071],[0.103,-0.215,-0.041,-0.074],[0.058,0.133,-0.029,0.123],[-0.025,-0.047,-0.02,0.035],[-0.046,-0.019,0.054,0.136],[0.103,0.115,0.053,-0.03],[-0.117,0.043,-0.055,-0.235],[0.231,0.198,-0.223,0.048],[-0.131,-0.008,0.031,-0.043],[0.229,0.035,-0.025,0.092],[0.015,-0.136,-0.027,0.025],[-0.081,-0.046,-0.048,0.165],[0.041,-0.056,0.01,-0.034],[-0.135,0.087,-0.021,-0.092],[0.071,-0.04,0.083,-0.032],[-0.085,0.228,-0.187,-0.243],[0.047,0.037,-0.004,0.239],[0.073,0.007,-0.052,-0.046],[-0.065,-0.044,0.011,0.042],[0.137,-0.161,-0.024,-0.049],[0.044,0.01,-0.045,0.027],[-0.06,-0.067,0.085,0.015],[-0.06,0.285,-0.066,-0.034],[0.048,-0.041,-0.001,-0.058],[-0.05,-0.083,-0.029,-0.027],[0.031,0.069,-0.096,0.088],[-0.012,-0.084,0.037,-0.036],[0.013,-0.008,-0.031,0.095],[-0.13,0.006,-0.02,-0.107],[0.105,0.154,0.019,0.008],[0.035,-0.077,0.022,0.036],[-0.043,-0.035,0.0,-0.173],[0.111,-0.027,-0.173,0.134],[-0.026,-0.016,-0.073,-0.044],[0.042,-0.137,0.085,0.098],[-0.184,0.048,0.04,-0.031],[0.12,0.003,0.007,-0.054],[-0.083,0.025,0.042,-0.009],[0.043,0.151,-0.109,-0.092],[0.088,0.002,0.059,0.044],[0.06,0.005,-0.163,-0.075],[-0.035,-0.19,0.039,0.145],[-0.008,0.047,0.001,0.021],[0.01,-0.143,0.063,0.032],[-0.029,-0.016,0.033,-0.081],[-0.019,0.077,-0.086,-0.094],[0.023,0.042,0.011,0.026],[0.101,0.075,-0.113,0.038],[-0.073,-0.056,0.138,0.029],[0.151,0.071,-0.147,0.015],[0.008,-0.073,0.02,0.0],[-0.053,-0.074,0.057,-0.035],[-0.004,0.063,-0.051,-0.041],[-0.023,-0.004,0.117,-0.019],[0.084,0.01,-0.142,0.047],[-0.042,0.03,0.022,0.006],[0.04,-0.077,-0.012,0.037],[0.008,0.012,-0.043,-0.01],[-0.067,0.015,0.029,-0.027],[0.08,0.019,-0.016,0.089],[-0.053,0.095,0.069,-0.095],[0.118,-0.053,-0.051,0.003],[-0.011,0.032,0.009,-0.0],[0.032,-0.096,-0.082,-0.006],[0.042,0.01,-0.011,0.104],[-0.061,0.01,-0.021,-0.073],[-0.045,-0.013,0.014,0.057],[-0.043,0.056,0.038,-0.013],[0.005,0.006,-0.017,0.009],[0.051,0.086,0.03,-0.044],[0.034,-0.028,-0.079,-0.04],[0.048,-0.024,-0.034,0.051],[0.019,-0.036,-0.048,0.008],[-0.036,-0.03,0.045,0.08],[0.02,-0.022,0.046,-0.069],[-0.089,0.014,-0.02,0.007],[0.036,0.001,-0.022,-0.016],[-0.059,0.068,-0.057,-0.014],[0.074,-0.02,0.028,0.036],[-0.001,0.048,-0.049,-0.018],[0.037,-0.026,0.026,0.055],[0.05,-0.039,-0.029,0.01],[-0.023,0.005,-0.013,-0.019],[-0.027,-0.027,0.042,-0.031],[-0.034,0.02,-0.076,0.013],[-0.0,-0.018,0.046,0.002],[0.019,-0.009,-0.078,0.019],[0.022,0.013,0.009,-0.023],[-0.023,-0.011,-0.024,-0.004],[0.057,0.018,-0.038,0.043],[-0.033,0.026,0.04,-0.033],[0.042,-0.022,-0.004,0.023],[0.019,0.039,-0.007,-0.034],[-0.022,-0.072,-0.026,0.02],[0.012,0.05,-0.004,-0.019],[-0.023,-0.08,-0.027,-0.03],[-0.022,0.001,0.011,0.016],[0.02,0.042,-0.049,0.002],[-0.011,-0.003,0.018,0.063],[0.034,-0.008,0.038,-0.013],[-0.011,0.019,-0.031,-0.057],[0.077,-0.002,-0.029,0.004],[-0.008,-0.034,-0.033,-0.0],[-0.018,0.005,-0.014,0.029],[0.036,-0.009,0.019,-0.004],[-0.032,0.008,0.008,-0.007],[0.018,-0.029,-0.002,0.002],[-0.045,0.043,-0.012,-0.017],[0.046,0.002,-0.015,-0.014],[-0.012,0.004,-0.046,-0.03],[0.005,-0.01,0.013,0.041],[0.05,0.005,-0.028,-0.008],[0.004,-0.031,0.02,0.028],[0.019,-0.017,0.012,-0.001],[-0.025,0.007,-0.02,-0.031],[0.019,0.005,0.023,0.015],[-0.002,0.002,-0.014,-0.027],[0.001,0.028,-0.01,-0.023],[0.035,-0.001,-0.028,0.017],[0.009,0.024,-0.022,-0.011],[-0.003,-0.033,0.012,0.038],[0.013,0.023,-0.006,-0.013],[-0.001,-0.003,0.001,0.009],[-0.008,-0.011,0.016,0.009],[0.012,0.038,-0.002,0.0],[0.01,-0.023,0.012,-0.021],[-0.012,0.011,-0.038,-0.036],[-0.006,0.001,-0.015,0.019],[0.007,-0.006,-0.027,0.006],[0.019,0.002,0.035,0.053],[0.001,0.005,-0.007,-0.046],[0.008,-0.003,0.001,0.003],[0.008,0.004,-0.022,-0.005],[-0.015,0.004,-0.013,-0.012],[0.016,0.003,0.008,0.043],[-0.007,0.015,-0.017,-0.02],[0.017,-0.002,0.023,0.025],[-0.02,-0.015,-0.002,-0.01],[0.017,0.025,0.012,-0.029],[-0.018,-0.042,-0.018,-0.008],[0.025,0.042,-0.041,-0.014],[-0.012,-0.028,-0.0,0.042],[0.014,0.012,-0.016,0.003],[0.003,0.003,0.011,0.028],[-0.015,-0.008,0.01,-0.008],[0.03,0.017,0.002,-0.001],[-0.035,-0.003,0.017,-0.011],[0.041,0.003,-0.024,-0.029],[-0.031,0.005,-0.005,0.007],[0.033,0.005,-0.041,0.009],[-0.012,-0.029,0.024,0.02],[-0.011,0.021,-0.026,-0.009],[-0.005,-0.036,-0.004,0.006],[-0.012,0.035,-0.001,0.011],[0.009,-0.014,-0.003,0.006],[0.021,0.026,0.025,-0.002],[0.007,-0.029,-0.015,-0.018],[0.017,0.007,-0.024,-0.012],[-0.007,-0.02,-0.011,0.023],[-0.016,-0.001,0.001,-0.007],[0.01,0.023,-0.006,0.01],[-0.003,-0.026,0.006,-0.012],[0.008,0.033,-0.016,-0.001],[-0.011,-0.02,-0.01,-0.001],[0.026,0.006,-0.002,0.013],[-0.022,-0.011,-0.014,-0.007],[0.019,0.01,-0.005,0.018],[0.015,-0.01,0.018,0.019],[-0.019,-0.003,0.002,-0.034],[0.009,0.002,-0.001,0.005],[0.005,0.006,-0.026,-0.031],[-0.007,-0.019,-0.007,0.012],[0.018,0.003,-0.027,0.01],[-0.017,0.014,0.002,0.009],[0.031,-0.028,-0.004,0.018],[-0.027,0.026,0.011,-0.005],[0.014,-0.002,0.01,-0.007],[0.021,-0.004,-0.01,-0.014],[-0.008,0.002,-0.017,-0.011],[0.003,-0.01,-0.01,0.017],[0.018,0.019,-0.004,0.004],[-0.012,-0.041,0.018,-0.004],[-0.008,0.016,-0.025,-0.015],[0.007,0.01,-0.005,0.008],[-0.008,-0.004,-0.004,0.002],[0.023,0.013,-0.014,0.009],[-0.013,0.009,0.026,-0.002],[0.052,-0.018,-0.033,-0.009],[-0.032,-0.006,0.015,0.007],[0.012,-0.015,-0.013,0.004],[-0.02,0.017,0.014,-0.009],[0.01,-0.001,-0.019,-0.011],[-0.005,0.01,-0.001,0.016],[0.017,0.017,-0.006,-0.021],[0.016,-0.026,-0.01,0.023],[-0.012,0.008,-0.002,-0.017],[0.005,-0.016,-0.011,0.008],[0.0,0.013,-0.003,0.02],[-0.005,-0.015,0.01,-0.021],[-0.003,0.021,-0.003,0.021],[0.021,0.003,-0.0,-0.028],[-0.008,-0.012,0.001,0.011],[0.021,0.014,-0.021,-0.015],[-0.014,-0.012,0.0,0.002],[0.023,-0.007,-0.014,0.013],[-0.021,0.003,-0.006,-0.004],[-0.0,-0.008,0.018,0.023],[0.005,0.018,-0.005,-0.036],[-0.006,-0.001,-0.015,0.013],[0.019,0.001,-0.005,0.004],[0.002,0.011,-0.006,0.005],[0.006,-0.017,0.02,0.006],[0.013,0.003,-0.017,-0.021],[-0.017,-0.008,0.007,0.001],[0.003,-0.004,-0.024,-0.003],[0.001,0.016,0.002,0.005],[-0.006,-0.011,-0.006,0.005],[0.01,0.013,-0.005,-0.001],[-0.003,0.007,0.004,0.004],[0.022,-0.014,-0.01,0.007],[-0.01,0.003,0.015,-0.01],[-0.002,-0.006,-0.015,-0.003],[0.003,0.008,-0.003,0.0],[0.006,0.001,-0.007,0.002],[0.004,-0.004,0.004,0.003],[0.001,-0.002,-0.005,-0.007],[0.004,-0.001,-0.004,-0.001],[-0.005,-0.012,-0.013,0.002],[-0.013,0.012,0.002,0.001],[0.01,0.009,-0.008,0.005],[0.007,0.001,-0.005,0.006],[0.006,-0.001,0.012,0.002],[0.006,0.003,0.0,-0.005],[0.006,-0.015,-0.003,-0.013],[-0.001,0.005,-0.014,-0.004],[-0.002,-0.009,-0.013,0.01],[0.001,-0.004,0.009,0.004],[-0.013,0.004,-0.008,0.002],[-0.001,0.007,0.006,-0.009],[0.005,0.016,-0.017,0.001],[0.01,-0.004,0.003,0.012],[0.007,0.009,-0.0,-0.008],[0.015,-0.01,-0.001,0.004],[0.001,-0.009,-0.002,-0.007],[-0.006,-0.018,-0.009,0.005],[-0.006,0.017,0.006,-0.005],[-0.003,-0.017,-0.011,0.003],[-0.009,0.016,0.007,-0.007],[0.0,0.013,-0.025,0.006],[0.016,0.008,0.019,0.006],[0.008,-0.002,-0.012,-0.011],[0.009,-0.003,-0.005,0.01],[0.007,-0.013,-0.001,-0.005],[-0.01,-0.004,-0.007,0.004],[-0.005,-0.001,0.006,0.007],[0.003,0.005,-0.001,-0.008],[-0.001,0.005,-0.002,-0.002],[-0.003,-0.009,-0.006,-0.002],[0.004,0.02,-0.005,-0.006],[0.001,-0.01,-0.012,-0.001],[0.008,0.009,-0.007,0.013],[-0.001,-0.001,0.009,-0.001],[0.019,0.002,-0.007,0.011],[-0.001,-0.019,0.016,-0.013],[-0.018,0.009,-0.01,-0.01],[0.011,-0.002,-0.018,0.009],[0.007,0.006,0.007,-0.006],[-0.017,-0.016,-0.008,0.015],[0.004,0.021,0.007,-0.013],[-0.002,-0.003,-0.007,0.007],[0.009,-0.001,-0.006,-0.005],[-0.004,0.014,0.003,0.001],[0.011,-0.007,-0.006,-0.003],[0.019,-0.003,-0.018,0.001],[-0.02,-0.017,0.011,0.012],[0.01,0.005,-0.003,-0.0],[-0.013,-0.004,0.003,-0.005],[0.003,0.003,0.003,-0.005],[-0.01,0.003,-0.019,-0.006],[0.003,0.016,0.007,0.008],[0.017,-0.0,-0.011,-0.007],[0.0,0.005,-0.004,0.001],[0.016,-0.015,0.002,0.007]],"up":[[0.37148,0.37467],[0.39733,0.39849],[0.40691,0.41417],[0.42114,0.42434],[0.43131,0.45832],[0.46878,0.47052],[0.51292,0.5228],[0.55591,0.55794],[0.56143,0.56375],[0.56724,0.57014],[0.57363,0.58379],[0.63723,0.64682],[0.76735,0.80221],[0.84084,0.8632],[0.87017,0.87249],[0.87598,0.89428],[0.90125,0.90473],[0.90822,1.0]],"art":[[[-19.0,-334.5],[-25.0,-334.1],[-31.0,-333.3],[-37.0,-332.1],[-43.0,-330.2],[-49.0,-327.7],[-55.0,-324.6],[-60.7,-320.7],[-66.3,-316.2],[-72.0,-310.9],[-76.7,-305.0],[-80.5,-300.0],[-83.1,-295.2],[-84.7,-290.0],[-84.5,-284.0],[-84.3,-278.0],[-84.5,-272.0],[-84.5,-266.0],[-83.0,-260.0],[-80.0,-254.0],[-76.3,-248.0],[-72.3,-242.0],[-69.3,-236.0],[-67.2,-230.0],[-65.8,-224.0],[-64.7,-218.0],[-64.2,-212.0],[-64.4,-206.0],[-65.3,-200.0],[-66.6,-194.0],[-68.9,-188.0],[-71.7,-182.0],[-75.1,-176.0],[-78.5,-170.0],[-82.3,-164.0],[-86.5,-158.0],[-90.8,-152.0],[-95.3,-146.3],[-100.1,-140.7],[-104.6,-135.0],[-108.7,-129.0],[-112.5,-123.0],[-116.3,-117.0],[-120.2,-111.0],[-124.7,-105.5],[-130.1,-100.7],[-135.7,-96.3],[-141.0,-91.4],[-146.1,-86.0],[-150.7,-80.0],[-154.5,-74.0],[-157.3,-68.0],[-159.4,-62.0],[-160.9,-56.0],[-161.6,-50.0],[-161.5,-44.0],[-161.1,-38.0],[-160.5,-32.0],[-159.3,-26.0],[-157.7,-20.0],[-155.6,-14.0],[-152.5,-8.1],[-148.5,-2.5],[-145.3,3.1],[-144.0,9.0],[-143.1,15.0],[-141.8,21.0],[-140.3,27.0],[-138.6,33.0],[-136.4,39.0],[-133.9,45.0],[-131.1,51.0],[-127.9,57.0],[-124.3,63.0],[-120.3,69.0],[-115.8,75.0],[-110.9,80.9],[-105.6,86.5],[-100.2,91.7],[-95.7,97.3],[-93.5,103.0],[-92.7,109.0],[-92.3,115.0],[-91.6,121.0],[-90.7,127.0],[-89.5,133.0],[-88.0,139.0],[-86.3,145.0],[-84.3,151.0],[-81.9,157.0],[-78.9,163.0],[-75.5,169.0],[-71.9,175.0],[-68.1,181.0],[-64.1,187.0],[-60.3,193.0],[-56.5,199.0],[-52.6,205.0],[-48.6,211.0],[-44.9,217.0],[-43.1,222.9],[-45.0,227.8],[-50.0,231.1],[-56.0,233.1],[-62.0,234.9],[-68.0,236.4],[-74.0,237.9],[-80.0,239.3],[-86.0,240.5],[-92.0,241.5],[-98.0,242.4],[-104.0,243.3],[-110.0,244.5],[-115.9,246.9],[-120.5,251.3],[-122.4,257.0],[-120.5,262.5],[-115.9,266.2],[-110.0,268.0],[-104.0,269.5],[-98.0,270.7],[-92.0,271.0],[-86.0,270.7],[-80.0,270.3],[-74.0,269.9],[-68.0,269.5],[-62.0,268.9],[-56.0,268.5],[-50.0,267.7],[-44.0,267.2],[-38.0,266.5],[-32.0,265.8],[-26.0,265.1],[-20.0,264.3],[-14.0,263.5],[-8.0,262.5],[-2.8,260.2],[0.0,255.8],[-0.7,250.2],[-4.5,245.5],[-9.9,241.1],[-14.1,235.9],[-15.9,230.0],[-15.9,224.0],[-15.5,218.0],[-14.5,212.0],[-13.3,206.0],[-12.1,200.0],[-11.1,194.0],[-10.0,188.0],[-9.2,182.0],[-8.5,176.0],[-8.0,170.0],[-7.4,164.0],[-6.4,158.0],[-5.3,152.0],[-3.8,146.0],[-2.3,140.0],[-0.3,134.0],[3.1,129.4],[7.8,128.3],[12.1,131.5],[14.9,137.0],[17.2,143.0],[19.3,149.0],[21.4,155.0],[23.6,161.0],[26.1,167.0],[28.8,173.0],[31.7,179.0],[34.8,185.0],[38.1,191.0],[41.5,197.0],[45.1,203.0],[48.5,209.0],[52.4,215.0],[56.3,221.0],[60.5,227.0],[64.5,233.0],[68.3,239.0],[70.9,245.0],[70.5,250.8],[66.8,255.7],[61.0,259.5],[55.0,262.7],[49.0,265.7],[43.0,268.5],[37.0,271.3],[31.0,274.3],[25.0,277.4],[19.1,281.6],[14.9,287.0],[13.3,293.0],[15.4,297.9],[19.9,301.3],[25.5,303.6],[31.1,305.8],[37.0,306.6],[43.0,306.5],[49.0,306.3],[55.0,307.1],[61.0,307.9],[67.0,308.0],[73.0,307.7],[79.0,306.7],[85.0,304.6],[91.0,301.1],[96.9,296.1],[102.5,290.5],[107.5,284.9],[110.7,279.0],[111.5,273.0],[109.9,267.1],[105.9,261.7],[100.9,256.5],[97.5,251.0],[96.2,245.0],[96.6,239.0],[97.5,233.0],[98.5,227.0],[99.7,221.0],[100.9,215.0],[102.1,209.0],[103.1,203.0],[103.9,197.0],[104.6,191.0],[105.1,185.0],[105.5,179.0],[105.9,173.0],[106.0,167.0],[106.0,161.0],[106.1,155.0],[106.5,149.0],[106.9,143.0],[107.0,137.0],[107.4,131.0],[107.8,125.0],[108.0,119.0],[108.0,113.0],[108.9,107.0],[111.9,101.0],[117.0,95.0],[122.7,89.0],[128.0,83.0],[132.5,77.0],[136.5,71.0],[140.1,65.0],[143.3,59.0],[146.1,53.0],[148.5,47.0],[150.6,41.0],[152.3,35.0],[153.8,29.0],[155.0,23.0],[155.9,17.0],[156.6,11.0],[157.0,5.0],[157.3,-1.0],[157.5,-7.0],[157.4,-13.0],[156.7,-19.0],[156.3,-25.0],[155.6,-31.0],[154.8,-37.0],[153.7,-43.0],[152.4,-49.0],[150.9,-55.0],[149.3,-61.0],[147.7,-67.0],[145.7,-73.0],[143.7,-79.0],[141.5,-85.0],[139.5,-91.0],[137.3,-97.0],[135.1,-103.0],[132.9,-109.0],[130.7,-115.0],[128.7,-121.0],[126.7,-127.0],[124.9,-133.0],[122.9,-139.0],[121.0,-145.0],[118.9,-151.0],[116.9,-157.0],[114.7,-163.0],[112.4,-169.0],[109.9,-175.0],[107.5,-181.0],[104.9,-187.0],[101.9,-193.0],[98.7,-199.0],[95.7,-205.0],[92.5,-211.0],[89.1,-217.0],[85.9,-223.0],[82.5,-229.0],[79.2,-235.0],[76.0,-241.0],[72.7,-247.0],[69.6,-253.0],[66.4,-259.0],[63.6,-265.0],[61.0,-271.0],[58.3,-277.0],[55.5,-283.0],[52.8,-289.0],[49.8,-295.0],[46.4,-301.0],[42.5,-307.0],[38.1,-312.8],[32.8,-318.0],[27.0,-322.5],[21.0,-326.4],[15.0,-329.3],[9.0,-331.3],[3.0,-332.9],[-3.0,-333.7],[-9.0,-334.4],[-15.0,-334.6],[-19.0,-334.5],[-19.0,-334.5]],[[-12.0,-299.0],[-12.9,-294.1],[-15.6,-289.7],[-19.8,-286.2],[-25.0,-284.1],[-30.7,-283.5],[-36.4,-284.5],[-41.4,-287.0],[-45.2,-290.7],[-47.5,-295.3],[-47.9,-300.2],[-46.6,-305.1],[-43.5,-309.3],[-39.0,-312.4],[-33.6,-314.2],[-27.8,-314.4],[-22.3,-313.0],[-17.5,-310.2],[-14.1,-306.2],[-12.2,-301.5],[-12.0,-299.0]],[[-17.5,-298.0],[-18.3,-294.2],[-20.5,-291.1],[-23.7,-289.3],[-27.4,-289.1],[-30.8,-290.6],[-33.3,-293.4],[-34.5,-297.0],[-34.1,-300.9],[-32.2,-304.2],[-29.1,-306.4],[-25.5,-307.0],[-22.0,-306.0],[-19.2,-303.4],[-17.7,-299.9],[-17.5,-298.0]],[[-80.0,-302.0],[-80.5,-301.2],[-81.3,-300.0],[-82.1,-298.6],[-83.0,-297.1],[-83.6,-295.5],[-84.0,-294.0],[-84.0,-292.3],[-83.7,-290.4],[-83.2,-288.5],[-82.7,-286.7],[-82.3,-285.1],[-82.0,-284.0],[-82.0,-284.0]],[[-86.0,-264.0],[-84.3,-263.8],[-81.9,-263.6],[-79.1,-263.3],[-76.1,-263.1],[-73.0,-262.9],[-70.0,-263.0],[-66.9,-263.3],[-63.5,-263.8],[-60.0,-264.4],[-56.7,-265.1],[-54.0,-265.6],[-52.0,-266.0],[-52.0,-266.0]],[[108.0,-148.0],[108.7,-142.8],[109.6,-135.4],[110.0,-128.0],[109.8,-121.4],[109.1,-114.8],[108.0,-108.0],[106.4,-100.7],[104.4,-93.1],[102.0,-86.0],[99.1,-79.7],[95.8,-73.9],[92.0,-68.0],[87.8,-61.8],[83.1,-55.6],[78.0,-50.0],[72.2,-45.3],[66.0,-41.3],[60.0,-38.0],[55.1,-35.7],[50.4,-34.1],[44.0,-32.0],[34.5,-28.8],[23.3,-25.2],[12.0,-22.0],[1.3,-19.7],[-9.3,-17.9],[-20.0,-16.0],[-31.2,-14.0],[-42.4,-12.0],[-52.0,-10.0],[-59.3,-8.0],[-65.0,-5.9],[-70.0,-4.0],[-74.6,-2.2],[-78.5,-0.6],[-82.0,1.0],[-85.0,2.5],[-87.6,3.9],[-90.0,5.0],[-92.5,6.0],[-94.9,6.7],[-97.0,7.0],[-98.9,6.7],[-100.6,6.0],[-102.0,5.0],[-103.3,3.8],[-104.4,2.4],[-105.0,1.0],[-104.9,-0.4],[-104.1,-1.8],[-103.0,-3.0],[-101.3,-3.9],[-99.1,-4.5],[-97.0,-5.0],[-94.4,-5.4],[-91.9,-5.8],[-91.0,-6.0],[-92.9,-6.0],[-96.4,-6.0],[-100.0,-6.0],[-103.4,-6.1],[-107.0,-6.4],[-110.0,-7.0],[-112.2,-8.1],[-113.8,-9.5],[-115.0,-11.0],[-115.8,-12.6],[-116.1,-14.4],[-116.0,-16.0],[-115.5,-17.5],[-114.5,-18.9],[-113.0,-20.0],[-110.8,-20.6],[-108.1,-20.8],[-105.0,-21.0],[-100.9,-21.3],[-96.4,-21.7],[-94.0,-22.0],[-95.2,-22.3],[-98.6,-22.7],[-102.0,-23.0],[-105.1,-23.2],[-108.3,-23.4],[-111.0,-24.0],[-113.1,-25.1],[-114.9,-26.5],[-116.0,-28.0],[-116.5,-29.6],[-116.5,-31.4],[-116.0,-33.0],[-115.2,-34.5],[-113.9,-35.9],[-112.0,-37.0],[-109.1,-37.6],[-105.6,-37.8],[-102.0,-38.0],[-98.2,-38.3],[-94.3,-38.5],[-91.0,-39.0],[-88.3,-39.8],[-86.1,-40.8],[-85.0,-42.0],[-85.3,-43.5],[-86.5,-45.3],[-88.0,-47.0],[-89.6,-48.7],[-91.5,-50.3],[-93.0,-52.0],[-94.1,-53.7],[-94.8,-55.4],[-95.0,-57.0],[-94.5,-58.5],[-93.5,-59.9],[-92.0,-61.0],[-90.0,-62.0],[-87.6,-62.7],[-85.0,-63.0],[-82.4,-62.7],[-79.6,-62.0],[-77.0,-61.0],[-74.6,-59.8],[-72.4,-58.3],[-70.0,-57.0],[-67.6,-55.6],[-65.0,-54.3],[-62.0,-54.0],[-58.5,-55.2],[-54.5,-57.4],[-50.0,-60.0],[-44.7,-63.0],[-38.9,-66.4],[-33.0,-70.0],[-27.0,-74.0],[-21.0,-78.2],[-15.0,-82.0],[-9.2,-85.1],[-3.6,-87.8],[2.0,-90.0],[7.3,-91.6],[12.6,-92.7],[18.0,-94.0],[24.5,-95.8],[31.3,-97.7],[36.0,-99.0],[36.0,-99.0]],[[25.0,-150.0],[24.9,-147.8],[24.7,-144.8],[24.6,-141.2],[24.4,-137.4],[24.2,-133.6],[24.0,-130.0],[23.8,-126.6],[23.7,-123.1],[23.5,-119.6],[23.3,-116.2],[23.2,-113.0],[23.0,-110.0],[22.8,-107.2],[22.6,-104.4],[22.4,-101.8],[22.3,-99.4],[22.1,-97.5],[22.0,-96.0],[22.0,-96.0]],[[-118.0,-117.0],[-116.4,-118.9],[-114.1,-121.5],[-111.5,-124.6],[-108.5,-127.9],[-105.3,-131.1],[-102.0,-134.0],[-98.5,-136.7],[-94.7,-139.4],[-90.8,-142.1],[-86.6,-144.7],[-82.3,-147.0],[-78.0,-149.0],[-73.5,-150.8],[-68.9,-152.4],[-64.1,-153.9],[-59.3,-155.0],[-54.6,-155.7],[-50.0,-156.0],[-45.5,-155.8],[-41.0,-155.1],[-36.5,-154.1],[-32.1,-152.7],[-28.0,-151.0],[-24.0,-149.0],[-20.2,-146.7],[-16.6,-143.9],[-13.1,-140.9],[-9.8,-137.6],[-6.7,-134.3],[-4.0,-131.0],[-1.6,-127.6],[0.6,-124.0],[2.4,-120.3],[4.1,-116.7],[5.6,-113.2],[7.0,-110.0],[8.2,-107.0],[9.3,-104.0],[10.2,-101.2],[10.9,-98.7],[11.5,-96.6],[12.0,-95.0],[12.0,-95.0]],[[-128.0,18.0],[-125.6,19.6],[-122.3,21.9],[-118.4,24.5],[-114.0,27.3],[-109.5,29.9],[-105.0,32.0],[-100.5,33.8],[-95.7,35.4],[-90.8,36.8],[-85.6,38.1],[-80.4,39.1],[-75.0,40.0],[-69.5,40.6],[-63.7,41.1],[-57.8,41.3],[-51.9,41.4],[-45.9,41.3],[-40.0,41.0],[-34.1,40.6],[-28.1,40.0],[-22.2,39.2],[-16.3,38.3],[-10.5,37.2],[-5.0,36.0],[0.3,34.5],[5.6,32.9],[10.6,31.0],[15.6,29.0],[20.3,27.0],[25.0,25.0],[29.6,23.0],[34.0,21.0],[38.4,18.9],[42.5,16.7],[46.4,14.4],[50.0,12.0],[53.3,9.4],[56.3,6.7],[59.1,3.9],[61.7,1.0],[64.0,-1.9],[66.0,-5.0],[67.8,-8.1],[69.2,-11.4],[70.4,-14.8],[71.4,-18.1],[72.3,-21.6],[73.0,-25.0],[73.5,-28.7],[73.8,-32.7],[73.9,-36.8],[74.0,-40.5],[74.0,-43.7],[74.0,-46.0],[74.0,-46.0]],[[-155.0,-62.0],[-152.3,-62.6],[-148.6,-63.4],[-145.0,-64.0],[-142.0,-64.3],[-139.3,-64.3],[-137.0,-64.0],[-135.1,-63.4],[-133.7,-62.5],[-133.0,-61.0],[-133.4,-58.6],[-134.7,-55.7],[-136.0,-53.0],[-137.3,-50.7],[-138.7,-48.7],[-140.0,-47.0],[-141.4,-45.8],[-142.6,-44.9],[-143.0,-44.0],[-141.9,-43.0],[-139.9,-42.1],[-138.0,-41.0],[-136.4,-39.7],[-135.0,-38.4],[-134.0,-37.0],[-133.6,-35.7],[-133.6,-34.4],[-134.0,-33.0],[-134.7,-31.3],[-135.7,-29.6],[-137.0,-28.0],[-139.2,-26.8],[-141.7,-25.9],[-143.0,-25.0],[-142.1,-24.3],[-139.9,-23.8],[-138.0,-23.0],[-136.7,-21.9],[-135.6,-20.5],[-135.0,-19.0],[-135.1,-17.3],[-135.8,-15.6],[-137.0,-14.0],[-139.4,-12.8],[-142.4,-11.9],[-144.0,-11.0],[-143.1,-10.3],[-140.9,-9.8],[-139.0,-9.0],[-137.9,-7.8],[-137.1,-6.4],[-137.0,-5.0],[-137.8,-3.6],[-139.3,-2.2],[-141.0,-1.0],[-143.1,-0.1],[-145.4,0.6],[-147.0,1.0],[-147.0,1.0]],[[-143.0,-44.0],[-144.1,-44.2],[-145.7,-44.6],[-147.5,-45.0],[-149.3,-45.4],[-150.9,-45.8],[-152.0,-46.0],[-152.0,-46.0]],[[-143.0,-25.0],[-144.2,-25.4],[-146.0,-25.9],[-148.0,-26.5],[-150.0,-27.1],[-151.8,-27.6],[-153.0,-28.0],[-153.0,-28.0]],[[-144.0,-11.0],[-145.0,-11.4],[-146.4,-11.9],[-148.0,-12.5],[-149.6,-13.1],[-151.0,-13.6],[-152.0,-14.0],[-152.0,-14.0]],[[-90.0,100.0],[-84.6,102.3],[-77.0,105.7],[-68.1,109.7],[-58.5,113.7],[-48.9,117.3],[-40.0,120.0],[-31.7,121.9],[-23.3,123.3],[-15.0,124.4],[-6.7,125.0],[1.7,125.2],[10.0,125.0],[18.5,124.4],[27.2,123.3],[35.9,121.9],[44.4,120.0],[52.5,117.7],[60.0,115.0],[67.1,111.4],[74.1,106.9],[80.6,101.9],[86.5,97.0],[91.4,92.9],[95.0,90.0],[95.0,90.0]],[[-116.0,250.0],[-115.0,251.1],[-113.5,252.6],[-111.8,254.4],[-110.1,256.3],[-108.7,258.2],[-108.0,260.0],[-108.0,261.8],[-108.6,263.7],[-109.5,265.6],[-110.5,267.4],[-111.4,268.9],[-112.0,270.0],[-112.0,270.0]],[[-100.0,260.0],[-99.3,261.2],[-98.2,263.0],[-97.0,265.0],[-95.8,267.0],[-94.7,268.8],[-94.0,270.0],[-94.0,270.0]],[[30.0,288.0],[30.5,288.9],[31.3,290.1],[32.2,291.5],[33.1,293.0],[33.8,294.6],[34.0,296.0],[33.8,297.4],[33.1,299.0],[32.2,300.5],[31.3,301.9],[30.5,303.1],[30.0,304.0],[30.0,304.0]],[[50.0,292.0],[50.2,293.2],[50.6,295.0],[51.0,297.0],[51.4,299.0],[51.8,300.8],[52.0,302.0],[52.0,302.0]]],"w":480,"h":760,"bb":[-161.6,-334.6,157.5,308.0]};
 const K = D.co.length;
 const cv = document.getElementById('cv'), ctx = cv.getContext('2d');
 const css = n => getComputedStyle(document.documentElement).getPropertyValue(n).trim();

diff --git a/fourier-blob/strokes.py b/fourier-blob/strokes.py
@@ -20,28 +20,28 @@ def cr(pts,seg=12,closed=False):
 def ellipse(cx,cy,rx,ry,n=40):
     return [[cx+rx*math.cos(a),cy+ry*math.sin(a)] for a in np.linspace(0,2*math.pi,n)]
 S={}
+S={}
 S['outline']=outline
 S['eye']=ellipse(210,81,18,15.5)
 S['pupil']=ellipse(214,82,8.5,9,30)
 S['backeye']=cr([[160,78],[156,86],[158,96]])
 S['mouth']=cr([[154,116],[170,117],[188,114]])
-S['belly']=cr([[96,300],[110,262],[140,234],[180,218],[225,214],[255,222]])
-S['arm_top']=cr([[255,222],[262,245],[262,272],[258,282]])
-S['arm']=cr([[166,334],[200,322],[240,300],[262,285],[290,287],[320,305],[340,330]])
-S['arm_low']=cr([[180,358],[230,350],[280,335],[320,322]])
-_=cr([[148,326],[160,318],[172,322],[175,334],[166,346],[175,352],[172,368],[150,372],[128,366],[124,352],[132,340],[140,330],[148,326]])
-d=cv2.imread('dark.png',0); d[400:]=0
-d=cv2.morphologyEx(d,cv2.MORPH_CLOSE,np.ones((9,9),np.uint8))
-hs,_=cv2.findContours(d,cv2.RETR_EXTERNAL,cv2.CHAIN_APPROX_NONE)
-for i,hc in enumerate(sorted(hs,key=cv2.contourArea)[-2:]):
-    hc=hc[:,0,:].astype(float); m=len(hc)
-    hc=np.array([hc[[(a+j)%m for j in range(-3,4)]].mean(0) for a in range(m)])[::2].tolist(); hc.append(hc[0])
-    S['hand%d'%i]=hc
-S['finger_r1']=cr([[128,346],[145,347],[158,344]])
-S['finger_r2']=cr([[130,360],[148,361],[162,358]])
-_=cr([[100,316],[92,325],[88,345],[94,362],[100,372]])
-S['finger_l1']=cr([[90,336],[100,338]])
-S['finger_l2']=cr([[92,352],[100,354]])
+# arm: upper-arm back edge -> elbow -> forearm bottom -> front-hand fingers -> thumb -> forearm top
+S['arm']=cr([[348,232],[350,252],[348,272],[342,294],[332,312],[318,330],[300,342],[284,348],[252,358],[220,364],[188,370],[170,376],[158,381],
+  [150,385],[143,387],[138,385],[135,381],[137,377],[143,375],[149,374],
+  [140,374],[130,373],[125,369],[124,364],[127,360],[135,359],[146,358],
+  [138,357],[129,356],[124,352],[124,347],[128,343],[138,342],[149,341],[155,338],
+  [152,333],[147,328],[145,323],[148,319],[155,317],[163,319],[170,323],
+  [178,326],[190,320],[207,310],[225,298],[242,290],[258,286],[276,281]],6)
+S['crease']=cr([[265,230],[264,250],[263,270],[262,284]])
+S['belly_top']=cr([[122,263],[138,246],[162,231],[190,224],[216,231],[236,249],[247,270],[252,285]])
+S['belly_patch_low']=cr([[112,398],[135,412],[165,420],[200,421],[235,416],[265,405],[290,392],[306,375],[313,355],[314,334]])
+# far-side hand: fingers wrap round the belly edge
+S['hand_back']=cr([[85,318],[95,316],[103,316],[107,319],[104,327],[100,333],[97,336],
+  [102,339],[106,343],[106,347],[103,352],[97,355],
+  [102,357],[105,361],[103,366],[96,369],
+  [101,371],[103,375],[99,379],[93,381]],6)
+S['fl1']=cr([[97,336],[88,334]]); S['fl2']=cr([[97,355],[87,352]]); S['fl3']=cr([[96,369],[88,366]])
 S['belly_low']=cr([[150,480],[200,500],[250,505],[300,495],[335,470]])
 S['toe_l1']=cr([[124,630],[132,640],[128,650]])
 S['toe_l2']=cr([[140,640],[146,650]])
@@ -54,3 +54,4 @@ for k,v in S.items():
 orig=cv2.imread('../../images/2.png'); ov=orig.copy()
 for v in S.values(): cv2.polylines(ov,[np.int32(v)],False,(255,0,0),2,cv2.LINE_AA)
 cv2.imwrite('preview.png',np.hstack([img,ov]))
+cv2.imwrite('zoomcheck.png',cv2.resize(np.hstack([img[190:440,60:380],ov[190:440,60:380]]),None,fx=2,fy=2))
